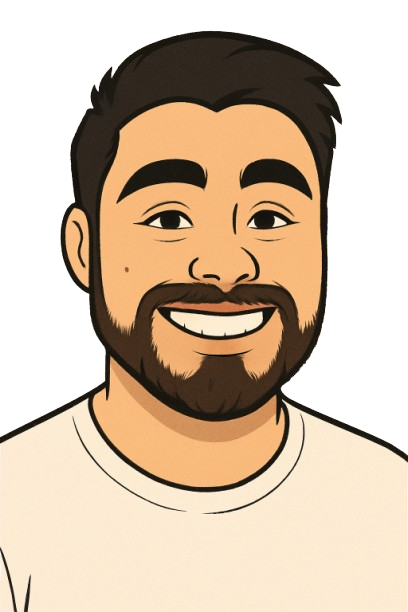
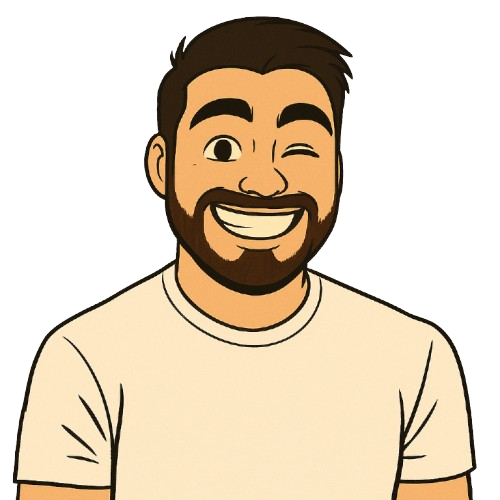
estilo en contact, sobre mi, proyectos y mas...

diff --git a/src/sections/Contact/Contact.jsx b/src/sections/Contact/Contact.jsx
@@ -22,10 +22,10 @@ const Contact = () => {
 
     return (
         <section id="contact" className="contact-section">
-            <h2>Contact Me</h2>
+            <h2>Contactarme</h2>
             <form className="contact-form" onSubmit={handleSubmit}>
                 <div className="form-group">
-                    <label htmlFor="name">Name</label>
+                    <label htmlFor="name">Nombre</label>
                     <input
                         type="text"
                         id="name"
@@ -33,6 +33,9 @@ const Contact = () => {
                         value={formData.name}
                         onChange={handleChange}
                         required
+                        placeholder='Tu nombre aquí.'
+                        className='input-contact'
+                        pattern="[A-Za-z\s]+"
                     />
                 </div>
                 <div className="form-group">
@@ -44,19 +47,24 @@ const Contact = () => {
                         value={formData.email}
                         onChange={handleChange}
                         required
+                        placeholder='Tu email aquí.'
+                        className='input-contact'
+                        pattern="[a-z0-9._%+-]+@[a-z0-9.-]+\.[a-z]{2,}$"
                     />
                 </div>
                 <div className="form-group">
-                    <label htmlFor="message">Message</label>
+                    <label htmlFor="message">Mensaje</label>
                     <textarea
                         id="message"
                         name="message"
                         value={formData.message}
                         onChange={handleChange}
                         required
+                        placeholder='Escribí tu mensaje aquí...'
+                        className='textarea'
                     ></textarea>
                 </div>
-                <button type="submit" className="submit-button">Send</button>
+                <button type="submit" className="submit-button">Enviar</button>
             </form>
         </section>
     );

diff --git a/src/components/Footer.jsx b/src/components/Footer.jsx
@@ -1,41 +1,25 @@
 import React from 'react';
+import '../styles/Footer.css'; // Asegúrate de tener este archivo CSS para los estilos
+import { Link } from 'react-scroll'; // Importa Link desde react-scroll si lo necesitas
 
 const Footer = () => {
+
+
     return (
-        <footer id="footer" style={styles.footer}>
-            <p style={styles.text}>
+        <footer id="footer">
+            <p className='text'>
                 © {new Date().getFullYear()} Miguel Roque Roberto Lucero. Todos los derechos reservados.
             </p>
-            <div style={styles.socialLinks}>
-                <a href="https://github.com/MiguelLuceroSL" target="_blank" rel="noopener noreferrer" style={styles.link}>
+            <div className='social-links'>
+                <a className='links' href="https://github.com/MiguelLuceroSL" target="_blank" rel="noopener noreferrer">
                     GitHub
                 </a>
-                <a href="https://www.linkedin.com/in/lucero-roque-roberto-miguel-2122bb251/" target="_blank" rel="noopener noreferrer" style={styles.link}>
+                <a className='links' href="https://www.linkedin.com/in/lucero-roque-roberto-miguel-2122bb251/" target="_blank" rel="noopener noreferrer">
                     LinkedIn
                 </a>
             </div>
         </footer>
     );
-};
-const styles = {
-    footer: {
-        backgroundColor: '#333',
-        color: '#fff',
-        textAlign: 'center',
-        padding: '1rem 0',
-    },
-    text: {
-        margin: 0,
-        fontSize: '1rem',
-    },
-    socialLinks: {
-        marginTop: '0.5rem',
-    },
-    link: {
-        color: '#61dafb',
-        margin: '0 0.5rem',
-        textDecoration: 'none',
-    },
 };
 export default Footer;
 

diff --git a/src/sections/Contact/Contact.css b/src/sections/Contact/Contact.css
@@ -70,6 +70,9 @@ textarea {
 }
     
 */
+@import url('https://fonts.googleapis.com/css2?family=Ubuntu+Sans+Mono:ital,wght@0,400..700;1,400..700&display=swap');
+@import url('https://fonts.googleapis.com/css2?family=Ubuntu:wght@300&display=swap');
+
 .contact-section {
     display: flex;
     flex-direction: column;
@@ -80,4 +83,59 @@ textarea {
     color: #333;
     text-align: center;
     min-height: 60vh;
+}
+
+.contact-section h2 {
+    font-family: 'Ubuntu', sans-serif;
+    font-size: 2rem;
+    margin-bottom: 1.5rem;
+    color: #f0f0f0;
+}
+
+.contact-form {
+    display: flex;
+    flex-direction: column;
+    gap: 2rem;
+    max-width: 500px;
+}
+
+.form-group {
+    display: flex;
+    flex-direction: column;
+    gap: 0.5rem;
+}
+
+label {
+    font-family: 'Ubuntu', sans-serif;
+    font-size: 1rem;
+    color: #f0f0f0;
+}
+
+input{
+    padding: 0.5rem;
+    border: 1px solid #ccc;
+    border-radius: 4px;
+    width: 100%;
+    box-sizing: border-box;
+}
+
+.textarea {
+    padding: 0.75rem;
+    border: 1px solid #ccc;
+    border-radius: 4px;
+    box-sizing: border-box;
+}
+
+.submit-button {
+    padding: 0.75rem 1.5rem;
+    background-color: #007bff;
+    color: #fff;
+    border: none;
+    border-radius: 4px;
+    font-size: 1rem;
+    cursor: pointer;
+    transition: background-color 0.3s ease;
+}
+.submit-button:hover {
+    background-color: #0056b3;
 }

diff --git a/src/sections/Home/Picture.jsx b/src/sections/Home/Picture.jsx
@@ -1,0 +1,25 @@
+import { motion } from "framer-motion";
+import { useState } from "react";
+
+const Picture = () => {
+  const [isHovered, setIsHovered] = useState(false);
+
+  return (
+    <motion.div
+      onHoverStart={() => setIsHovered(true)}
+      onHoverEnd={() => setIsHovered(false)}
+      style={{ width: 300, height: 300, overflow: "hidden" }}
+    >
+      <motion.img
+        src={isHovered ? "../../public/images/avatar2.png" : "../../public/images/avatar1.png"}
+        alt="imagen"
+        initial={{ opacity: 0 }}
+        animate={{ opacity: 1 }}
+        transition={{ duration: 0.5 }}
+        style={{ width: "100%", height: "100%", objectFit: "cover" }}
+      />
+    </motion.div>
+  );
+};
+
+export default Picture;

diff --git a/src/sections/Projects/Projects.jsx b/src/sections/Projects/Projects.jsx
@@ -9,16 +9,10 @@ const projects = [
         link: 'https://bknshop.vercel.app/',
     },
     {
-        title: 'Proyecto 2',
-        image: '../../public/images/bkn.jpg',
-        description: 'Description of project 2.',
+        title: 'Agenda de Consultorios',
+        image: '../../public/images/agencia.jpg',
+        description: 'Sitio web para reservación de turnos médicos, usa login con JWT, vistas con Pug, db con MySQL y verifica las rutas.',
         link: 'https://example.com/project2',
-    },
-    {
-        title: 'Proyecto 3',
-        image: '../../public/images/bkn.jpg',
-        description: 'Description of project 3.',
-        link: 'https://example.com/project3',
     },
 ];
 

diff --git a/src/sections/Home/Home.jsx b/src/sections/Home/Home.jsx
@@ -1,10 +1,11 @@
 import React from 'react';
 import './Home.css';
+import Picture from './Picture';
 
 const Home = () => {
     return (
         <section id='home' className="home">
-            <img className='avatar' src="../../public/images/avatar3.png" alt="" />
+            <Picture />
             <article className="home-content">
                 <h1>¡Hola, me llamo Miguel!</h1>
                 <p className='pFirst'>

diff --git a/src/sections/About/About.css b/src/sections/About/About.css
@@ -10,9 +10,7 @@
     color: #f0f0f0;
     text-align: center;
     min-height: 70vh;
-    border-bottom: 1px solid #ccc;
-    box-shadow: 0 2px 5px rgba(0, 0, 0, 0.1);
-    gap: 3rem;
+    gap: 5rem;
 }
 
 .about-section h2 {
@@ -26,7 +24,7 @@
     font-family: 'Ubuntu', sans-serif;
     font-size: 1.2rem;
     line-height: 1.6;
-    max-width: 600px;
+    max-width: 800px;
     margin: 0 auto;
     color: #f0f0f0;
 }

diff --git a/src/styles/Footer.css b/src/styles/Footer.css
@@ -1,0 +1,25 @@
+footer {
+    background-color: #333;
+    color: #fff;
+    text-align: center;
+    padding: 1rem 0;
+}
+
+.text {
+    margin: 0;
+    font-size: 1rem;
+}
+
+.social-links {
+    margin-top: '0.5rem';
+}
+
+.links {
+    color: #61dafb;
+    margin: 0 0.5rem;
+    text-decoration: 'none';
+}
+a:hover{
+    color: #21a1f1;
+    text-decoration: 'underline';
+}

diff --git a/src/sections/Projects/Projects.css b/src/sections/Projects/Projects.css
@@ -72,8 +72,6 @@
     padding: 2rem;
     /*background-color: #ffffff;*/
     text-align: center;
-    border-bottom: 1px solid #ccc;
-    box-shadow: 0 2px 5px rgba(0, 0, 0, 0.1);
 }
 .projects-section h2 {
     font-family: 'Ubuntu', sans-serif;

diff --git a/src/sections/Tech/Tech.css b/src/sections/Tech/Tech.css
@@ -7,10 +7,7 @@
   align-items: center;
   justify-content: center;
   padding: 20px;
-  padding-right: 100px;
   min-height: 50vh;
-  border-bottom: 1px solid #ccc;
-  box-shadow: 0 2px 5px rgba(0, 0, 0, 0.1);
 }
 
 .tech-content {

diff --git a/src/sections/Home/Home.css b/src/sections/Home/Home.css
@@ -52,8 +52,6 @@
     text-align: center;
     justify-content: space-between;
     padding: 15rem;
-    border-bottom: 1px solid #ccc;
-    box-shadow: 0 2px 5px rgba(0, 0, 0, 0.1);
 }
 
 .home-content{
